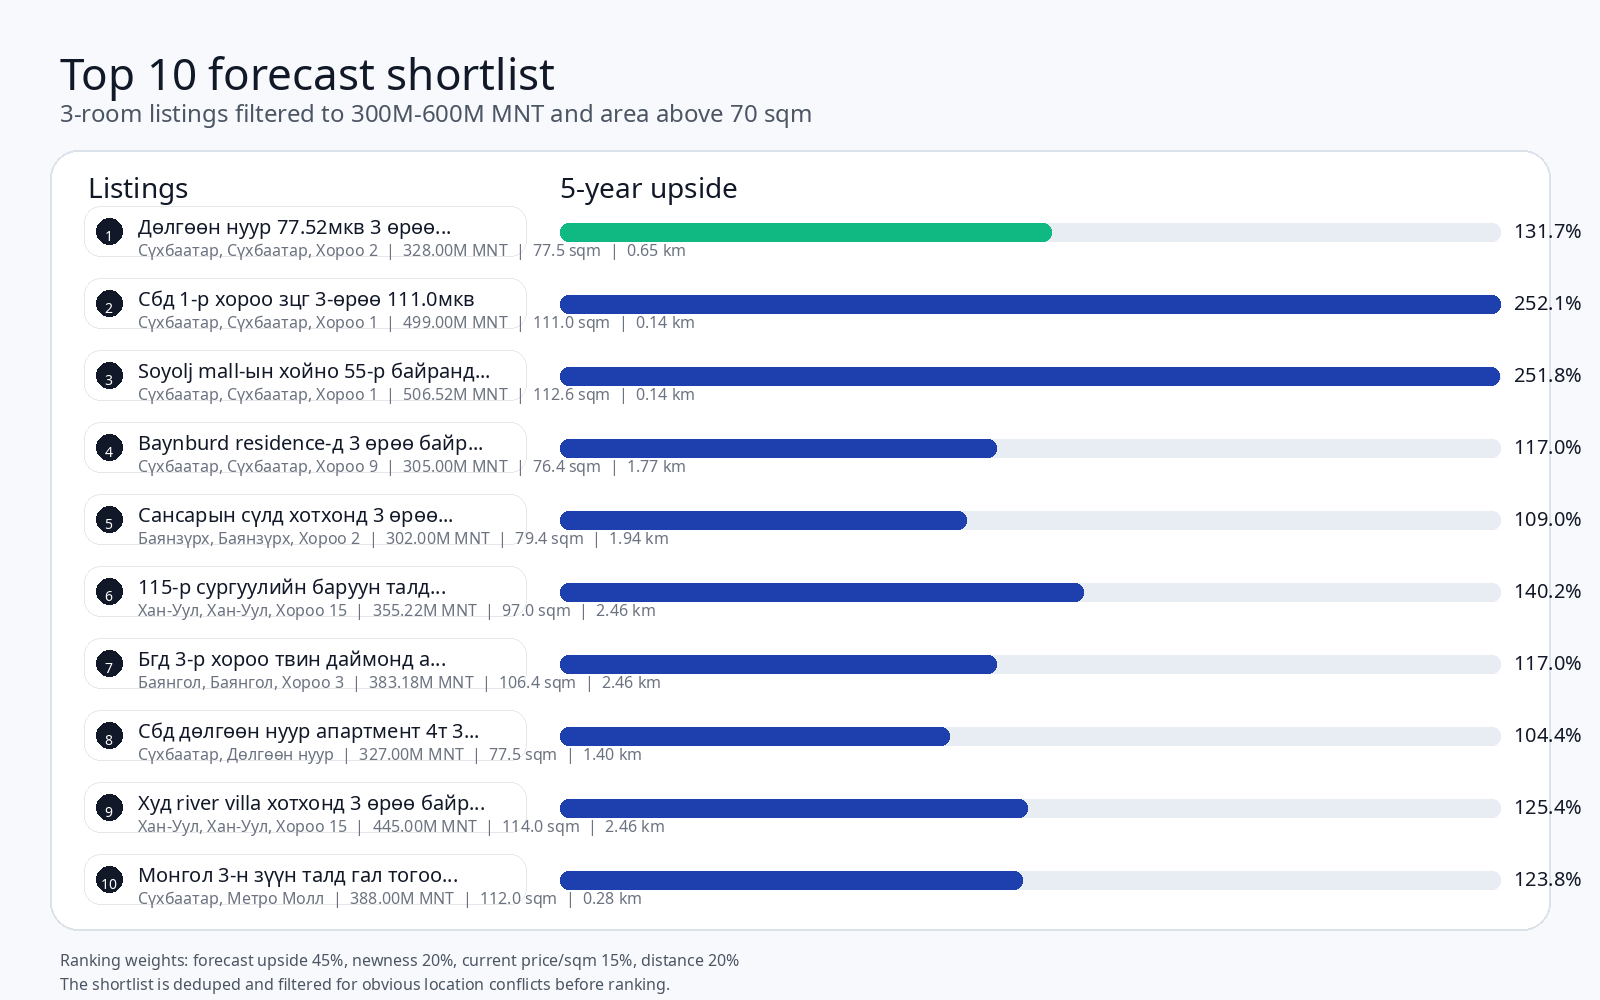
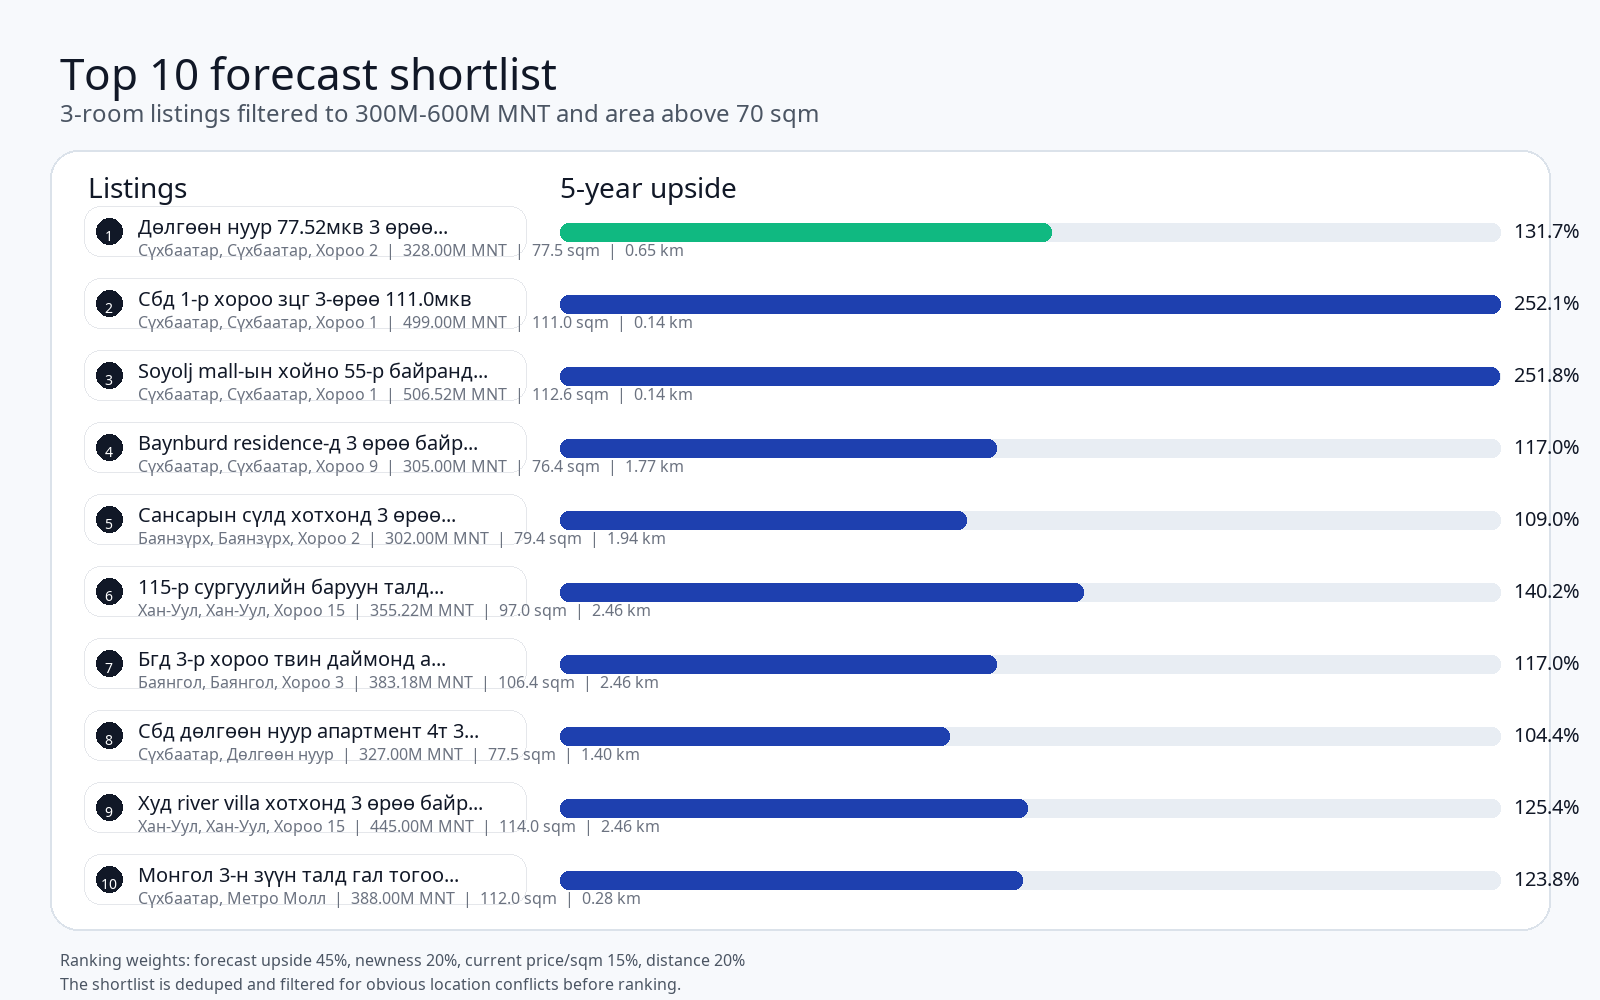
more changes

diff --git a/build_readme_assets.py b/build_readme_assets.py
@@ -1,17 +1,25 @@
 from __future__ import annotations
 
 import argparse
+import json
 import math
+import os
 from pathlib import Path
 from typing import Iterable
 
 import pandas as pd
 from PIL import Image, ImageDraw, ImageFont
 
+try:
+    import plotly.graph_objects as go
+except Exception:  # pragma: no cover - optional dependency for local README asset generation
+    go = None
+
 
 ROOT = Path(__file__).resolve().parent
 DEFAULT_REGION_CSV = ROOT / "unegui_ub_all_stats_apartment_region_stats.csv"
 DEFAULT_TOP10_CSV = ROOT / "unegui_ub_all_3room_filtered_forecast_top10.csv"
+DEFAULT_MAP_HTML = ROOT / "unegui_ub_all_stats_apartment_price_per_sqm_map.html"
 DEFAULT_OUT_DIR = ROOT / "assets"
 
 
@@ -160,6 +168,83 @@ def draw_panel_frame(draw: ImageDraw.ImageDraw, box: tuple[int, int, int, int], 
     draw.rounded_rectangle(box, radius=28, fill=fill, outline="#dbe2ea", width=2)
 
 
+def split_plotly_newplot_args(html_text: str) -> list[str]:
+    marker = "Plotly.newPlot("
+    start = html_text.find(marker)
+    if start == -1:
+        raise ValueError("Could not find Plotly.newPlot call in HTML file.")
+
+    segment = html_text[start + len(marker) :]
+    args: list[str] = []
+    current: list[str] = []
+    depth = 0
+    string_delim: str | None = None
+    escape = False
+
+    for ch in segment:
+        if string_delim is not None:
+            current.append(ch)
+            if escape:
+                escape = False
+            elif ch == "\\":
+                escape = True
+            elif ch == string_delim:
+                string_delim = None
+            continue
+
+        if ch in ('"', "'"):
+            string_delim = ch
+            current.append(ch)
+            continue
+        if ch in "[{(":
+            depth += 1
+            current.append(ch)
+            continue
+        if ch in "]})":
+            depth -= 1
+            current.append(ch)
+            if depth == 0 and ch == ")":
+                break
+            continue
+        if ch == "," and depth == 0:
+            args.append("".join(current).strip())
+            current = []
+            continue
+        current.append(ch)
+
+    if current:
+        args.append("".join(current).strip())
+
+    return args
+
+
+def render_actual_html_map_cover(
+    html_path: Path,
+    output_path: Path,
+    chrome_path: str | None = None,
+) -> None:
+    if go is None:
+        raise RuntimeError("plotly is not available")
+    if not html_path.exists():
+        raise FileNotFoundError(html_path)
+
+    html_text = html_path.read_text(encoding="utf-8")
+    args = split_plotly_newplot_args(html_text)
+    if len(args) < 3:
+        raise ValueError("Could not parse Plotly figure JSON from HTML.")
+
+    data = json.loads(args[1])
+    layout = json.loads(args[2].rstrip(")"))
+
+    if chrome_path:
+        chrome = Path(chrome_path)
+        chrome_dir = chrome if chrome.is_dir() else chrome.parent
+        os.environ["PATH"] = f"{chrome_dir}{os.pathsep}{os.environ.get('PATH', '')}"
+
+    fig = go.Figure(data=data, layout=layout)
+    fig.write_image(str(output_path), width=1600, height=1000, scale=1)
+
+
 def convex_hull(points: list[tuple[int, int]]) -> list[tuple[int, int]]:
     unique = sorted(set(points))
     if len(unique) <= 1:
@@ -183,7 +268,7 @@ def convex_hull(points: list[tuple[int, int]]) -> list[tuple[int, int]]:
     return lower[:-1] + upper[:-1]
 
 
-def draw_map_cover(region_df: pd.DataFrame, output_path: Path) -> None:
+def draw_schematic_map_cover(region_df: pd.DataFrame, output_path: Path) -> None:
     df = region_df.dropna(subset=["latitude", "longitude", "median_price_per_sqm"]).copy()
     if df.empty:
         raise SystemExit("Region stats file has no usable coordinates.")
@@ -312,6 +397,16 @@ def draw_map_cover(region_df: pd.DataFrame, output_path: Path) -> None:
     image.save(output_path)
 
 
+def draw_map_cover(region_df: pd.DataFrame, output_path: Path, map_html_path: Path, chrome_path: str | None = None) -> None:
+    try:
+        render_actual_html_map_cover(map_html_path, output_path, chrome_path=chrome_path)
+        return
+    except Exception as exc:
+        print(f"Falling back to schematic README map cover: {exc}")
+
+    draw_schematic_map_cover(region_df, output_path)
+
+
 def draw_top10_cover(top10_df: pd.DataFrame, output_path: Path) -> None:
     df = top10_df.sort_values("forecast_rank").copy()
     if df.empty:
@@ -377,7 +472,7 @@ def draw_top10_cover(top10_df: pd.DataFrame, output_path: Path) -> None:
     image.save(output_path)
 
 
-def build_assets(region_csv: Path, top10_csv: Path, out_dir: Path) -> tuple[Path, Path]:
+def build_assets(region_csv: Path, top10_csv: Path, map_html_path: Path, out_dir: Path, chrome_path: str | None = None) -> tuple[Path, Path]:
     if not region_csv.exists():
         raise SystemExit(f"Region stats CSV not found: {region_csv}")
     if not top10_csv.exists():
@@ -388,7 +483,7 @@ def build_assets(region_csv: Path, top10_csv: Path, out_dir: Path) -> tuple[Path
 
     map_path = out_dir / "ub_median_price_map.png"
     top10_path = out_dir / "ub_top10_forecast.png"
-    draw_map_cover(region_df, map_path)
+    draw_map_cover(region_df, map_path, map_html_path, chrome_path=chrome_path)
     draw_top10_cover(top10_df, top10_path)
     return map_path, top10_path
 
@@ -397,13 +492,21 @@ def build_parser() -> argparse.ArgumentParser:
     parser = argparse.ArgumentParser(description="Build PNG figures for the repository README.")
     parser.add_argument("--region-csv", default=str(DEFAULT_REGION_CSV), help="Full-scrape region stats CSV.")
     parser.add_argument("--top10-csv", default=str(DEFAULT_TOP10_CSV), help="Top 10 forecast CSV.")
+    parser.add_argument("--map-html", default=str(DEFAULT_MAP_HTML), help="HTML map output to snapshot for the README.")
+    parser.add_argument("--chrome-path", default="", help="Optional path to a Chrome executable or its parent directory.")
     parser.add_argument("--out-dir", default=str(DEFAULT_OUT_DIR), help="Output directory for the PNG assets.")
     return parser
 
 
 def main() -> None:
     args = build_parser().parse_args()
-    build_assets(Path(args.region_csv), Path(args.top10_csv), Path(args.out_dir))
+    build_assets(
+        Path(args.region_csv),
+        Path(args.top10_csv),
+        Path(args.map_html),
+        Path(args.out_dir),
+        chrome_path=args.chrome_path or None,
+    )
 
 
 if __name__ == "__main__":

diff --git a/README.md b/README.md
@@ -4,12 +4,14 @@ This repository scrapes public Unegui.mn apartment listings for Ulaanbaatar, nor
 
 The project is built for reproducible analysis rather than one-off spreadsheets. The checked-in files are the scripts and documentation. Generated CSV, XLSX, HTML, ZIP, PDF, and download folders are intentionally excluded from version control.
 
+All commands below assume the `base` conda environment is active.
+
 ## Snapshot
 
 ### Ulaanbaatar price map
 ![Ulaanbaatar median price map](assets/ub_median_price_map.png)
 
-The cover map uses a schematic Ulaanbaatar underlay with median asking price per sqm by region.
+The cover map is exported from the real Plotly HTML map output and shows median asking price per sqm by region on top of the actual Ulaanbaatar map.
 
 ### Forecast shortlist
 ![Forecast shortlist](assets/ub_top10_forecast.png)
@@ -74,10 +76,11 @@ The current full-scrape workflow produces these main files:
 
 ## Reproducible Workflow
 
-### 1. Install dependencies
+### 1. Activate `base` and install dependencies
 
 ```bash
-python3 -m pip install -r requirements.txt
+conda activate base
+python -m pip install -r requirements.txt
 ```
 
 ### 2. Scrape all pages
@@ -85,13 +88,13 @@ python3 -m pip install -r requirements.txt
 Use `--all-pages` to discover pagination automatically. Add `--details` to fetch the listing detail pages, which is required for the richer analysis outputs.
 
 ```bash
-python3 scraper.py --all-pages --details --workers 12 --output unegui_ub_all_pages_details.csv --analyze --analysis-prefix unegui_ub_all
+python scraper.py --all-pages --details --workers 12 --output unegui_ub_all_pages_details.csv --analyze --analysis-prefix unegui_ub_all
 ```
 
 ### 3. Build statistics and maps
 
 ```bash
-python3 listing_statistics.py --input unegui_ub_all_pages_details.csv --output-prefix unegui_ub_all_stats
+python listing_statistics.py --input unegui_ub_all_pages_details.csv --output-prefix unegui_ub_all_stats
 ```
 
 This produces the region and district statistics, room counts, property-type breakdowns, the apartment price-per-sqm heatmap, and the median price-per-sqm map.
@@ -101,13 +104,13 @@ This produces the region and district statistics, room counts, property-type bre
 Place the required 1212 tables in `Stats/` first. The forecast step expects the annual HPI table and the district price table used by `forecast_listings.py`.
 
 ```bash
-python3 forecast_listings.py --input unegui_ub_all_pages_details.csv --stats-dir Stats --output-prefix unegui_ub_all_3room_filtered
+python forecast_listings.py --input unegui_ub_all_pages_details.csv --stats-dir Stats --output-prefix unegui_ub_all_3room_filtered
 ```
 
 ### 5. Export the top-10 report
 
 ```bash
-python3 export_top10_details.py --input unegui_ub_all_3room_filtered_forecast_ranked_apartments.csv --output-dir top10_forecast_all_3room_filtered_report --top-n 10 --workers 8
+python export_top10_details.py --input unegui_ub_all_3room_filtered_forecast_ranked_apartments.csv --output-dir top10_forecast_all_3room_filtered_report --top-n 10 --workers 8
 ```
 
 The HTML report includes:
@@ -121,8 +124,10 @@ The HTML report includes:
 ### 6. Build the README figures
 
 ```bash
-python3 build_readme_assets.py
+python build_readme_assets.py --map-html unegui_ub_all_stats_apartment_price_per_sqm_map.html
 ```
+
+If Chrome is not already available to Kaleido in your `base` environment, pass `--chrome-path /path/to/chrome` so the map cover is rendered from the HTML export instead of falling back to the schematic version.
 
 This writes:
 
@@ -145,6 +150,7 @@ This writes:
 - `requests`
 - `beautifulsoup4`
 - `plotly`
+- `kaleido`
 - `Pillow`
 
 Install them with: